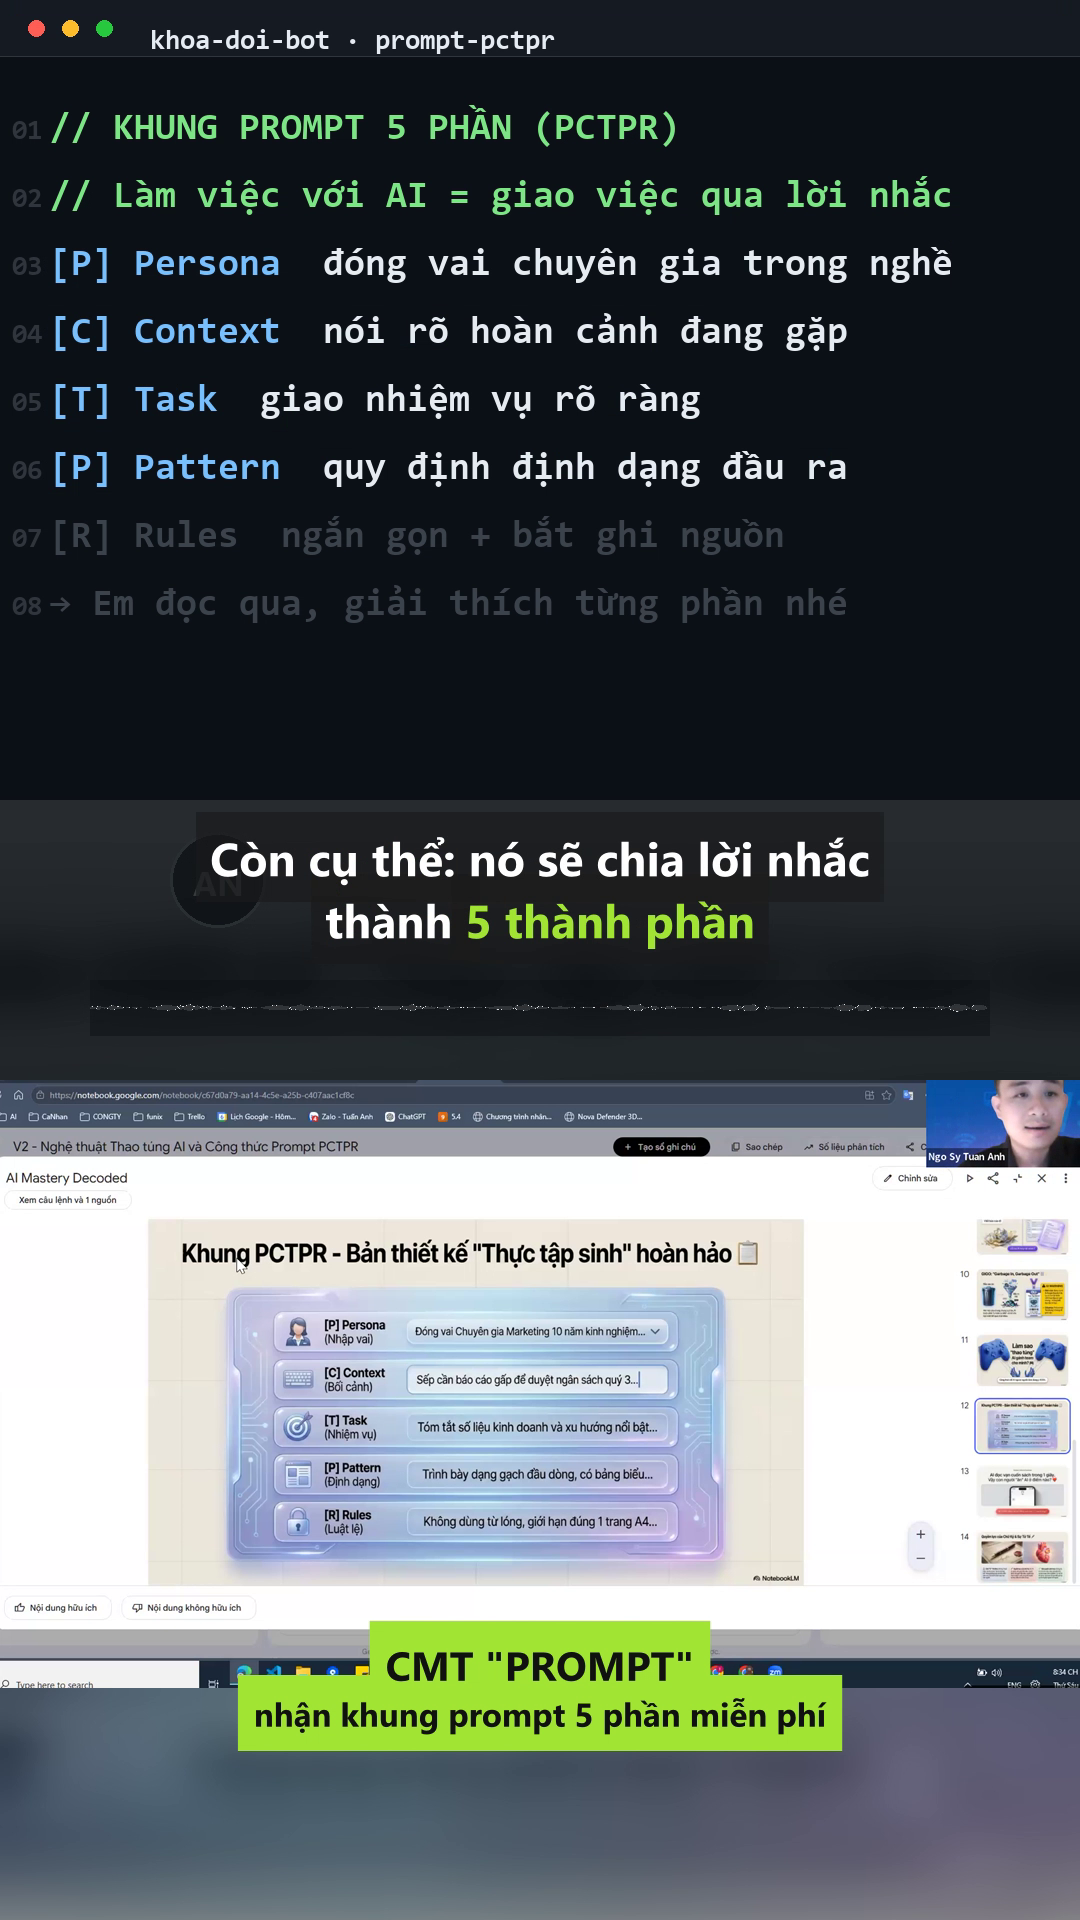
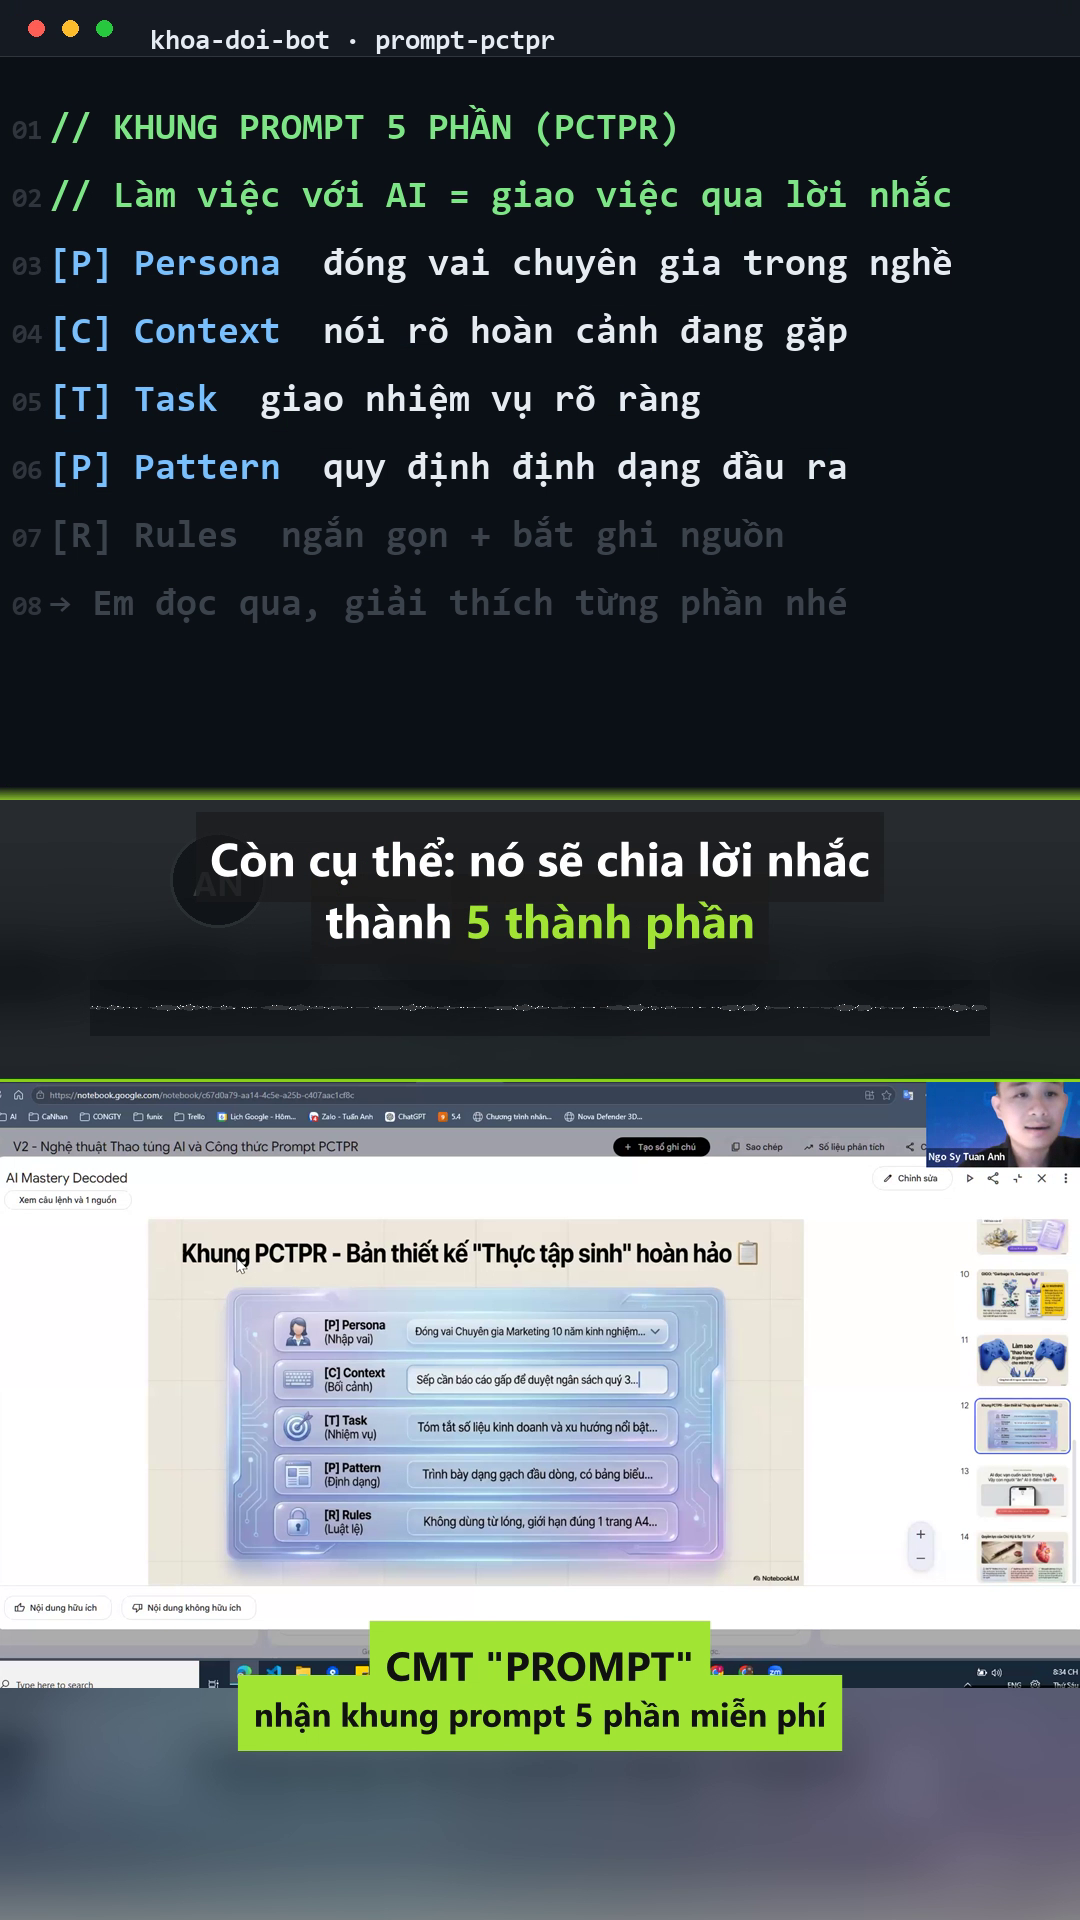
E21 gradient phan tang: 160/170 (tag v18) — M17 3->10

Changed region(s): [[0.0, 0.4062, 1.0, 0.4375]]

diff --git a/render_code_variant.py b/render_code_variant.py
@@ -42,7 +42,7 @@ def font_code(size=CODE_SIZE):
 
 def code_config_hash(v: dict) -> str:
     payload = json.dumps({"tab": v.get("tab"), "lines": v["code_lines"]}, ensure_ascii=False, sort_keys=True)
-    payload += f"|{CODE_FONT}|{CODE_SIZE}|{LINE_H}|{BODY_Y0}|{W}x{H_CODE}|v2-word"
+    payload += f"|{CODE_FONT}|{CODE_SIZE}|{LINE_H}|{BODY_Y0}|{W}x{H_CODE}|v3-grad"
     return hashlib.sha1(payload.encode()).hexdigest()[:12]
 
 
@@ -146,6 +146,12 @@ def render_code_frames(v: dict, out_dir: Path, dur: float, reuse: bool = True):
             cursor_pos = (BODY_X, BODY_Y0)
         if (i // 7) % 2 == 0:
             d.rectangle([cursor_pos[0], cursor_pos[1] + 2, cursor_pos[0] + 16, cursor_pos[1] + 46], fill=LIME)
+
+        # gradient phân tầng: mép dưới khung code chuyển dần sang lime
+        for gy in range(H_CODE - 14, H_CODE):
+            k = (gy - (H_CODE - 14)) / 14.0
+            col = tuple(int(BG[c] * (1 - k) + LIME[c] * k * 0.85) for c in range(3))
+            d.line([0, gy, W, gy], fill=col)
 
         img.save(out_dir / f"{i:05d}.png")
     meta_path.write_text(json.dumps({"hash": code_config_hash(v), "frames": n}, ensure_ascii=False), encoding="utf-8")
@@ -345,6 +351,9 @@ def main() -> int:
         chain += f"[{last}][wave]overlay=x=(W-w)/2:y={int(v.get('waveform_y', 986))}:shortest=1[wv];"
         last = "wv"
         audio_tail = "[al]loudnorm=I=-16:TP=-1.5:LRA=11[aout]"
+    if v.get("gradient"):
+        chain += f"[{last}]drawbox=x=0:y=1079:w=1080:h=3:color=0xa3e635@0.85:t=fill[gb];"
+        last = "gb"
     chain += f"[{last}]ass={ass_path.relative_to(out_buoi).as_posix()}[vout];{audio_tail}"
     cmd += ["-filter_complex", chain, "-map", "[vout]", "-map", "[aout]",
         "-t", f"{dur:.3f}",

diff --git a/diem/diem_log.md b/diem/diem_log.md
@@ -28,7 +28,9 @@ Metric duy nhất: rubric.md (100 điểm). Best hiện tại ghi đầu bảng.
 | — | THANG MỞ RỘNG v3: +M15 code đa sắc & số dòng (trần 150) — v17 chấm lại M15:4 => 144/150 | 144 | ✔ | 144 |
 | E19 | Đa sắc key xanh dương + số dòng | 146/150 | ✔ | 146 |
 | — | THANG v4: +M16 nhịp từ + flash viền (trần 160) — v16 chấm lại M16:3 => 149/160 | 149 | ✔ | 149 |
-| E20 | Typing nhịp từ + flash viền hoàn thành dòng | **153/160** | ✔ best | **153** |
+| E20 | Typing nhịp từ + flash viền hoàn thành dòng | 153/160 | ✔ | 153 |
+| — | THANG v5: +M17 gradient phân tầng (trần 170) — v17 chấm lại M17:3 => 156/170 | 156 | ✔ | 156 |
+| E21 | Gradient đáy code + viền lime tách tầng | **160/170** | ✔ best | **160** |
 
 ## E0 — Baseline: 86 điểm (tag v0)
 
@@ -130,6 +132,10 @@ Chấm trên diem/E0_baseline/ (ffprobe: 1080x1920, 50.00s — chuẩn).
 ## E20 — Nhịp từ + flash: 153/160 (tag v17)
 
 - M16: 3 → 10 (typing word-beat 40 chars/s + nghỉ 0.1s giữa từ; viền lime flash 0.25s khi dòng xong).
+
+## E21 — Gradient phân tầng: 160/170 (tag v18)
+
+- M17: 3 → 10 (gradient 14px đáy code + line lime 3px đỉnh footage — ranh giới 3 tầng rõ).
 
 ## PHIÊN 1 ĐÓNG TẠI ĐÂY (quota zai ~42%)
 

diff --git a/rubric.md b/rubric.md
@@ -39,3 +39,5 @@ Chấm bằng 3 frame (đầu/giữa/cuối) + ffprobe + review diff. Mỗi mụ
 | 15 | Code đa sắc + số dòng | key xanh dương #79c0ff, nội dung trắng, comment xanh lá, số dòng mờ bên trái | đơn sắc trắng |
 
 ## MỞ RỘNG v4 (E20): +M16 typing nhịp từ + flash viền hoàn thành (trần 160)
+
+## MỞ RỘNG v5 (E21): +M17 gradient phân tầng (trần 170)
